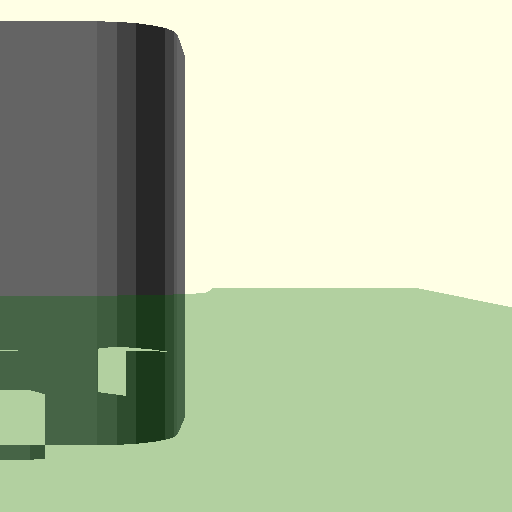
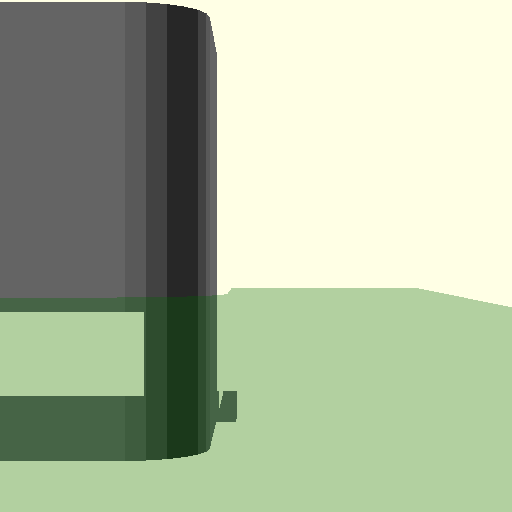
Refactor REGS to use standard CalculatorMenu framework and cap SIG auto-tracking to user parameter

Changed region(s): [[0.0, 0.0, 0.4688, 0.9062]]

diff --git a/RPNCore/Sources/RPNCore/CalculatorEngine.swift b/RPNCore/Sources/RPNCore/CalculatorEngine.swift
@@ -310,7 +310,6 @@ public class CalculatorEngine {
     
     // UI Events
     public var requestPlot: Bool = false
-    public var showRegs: Bool = false
     public var requestPlotPrompt: Bool = false
     public var selectedPlotX: Double? = nil
     public var requestThemeChange: Bool = false
@@ -1361,10 +1360,6 @@ public class CalculatorEngine {
                 // If they typed something else, it just clears the view and proceeds.
             }
         }
-        if operation == "REGS" {
-            self.showRegs = true
-            return
-        }
         
         if isWaitingForLabel {
             if operation == "C" || operation == "CLEAR" || operation == "BACKSPACE" {
@@ -1409,10 +1404,6 @@ public class CalculatorEngine {
             if operation != "VIEW" {
                 // If they typed something else, it just clears the view and proceeds.
             }
-        }
-        if operation == "REGS" {
-            self.showRegs = true
-            return
         }
         
         if isWaitingForLabel {
@@ -1775,8 +1766,8 @@ public class CalculatorEngine {
             updateDisplay()
             return
         }
-        if operation == "SIG" {
-            displayMode = .sig(-1)
+        if operation.hasPrefix("SIG ") {
+            if let p = parseInt(_substringToString(operation.dropFirst(4))) { displayMode = .sig(p) }
             isFractionMode = false
             updateDisplay()
             return
@@ -3351,9 +3342,9 @@ public class CalculatorEngine {
     
     public func formatValue(_ cv: CalculatorValue) -> String {
         let val = cv.real
-        if displayMode == .sig(-1) {
-            // Auto sig figs formatting
-            let sf = cv.effectiveSigFigs
+        if case .sig(let p) = displayMode {
+            // Cap the auto sig figs to the user's requested parameter `p`
+            let sf = min(p, cv.effectiveSigFigs)
             
             #if hasFeature(Embedded)
             let bufLen = 64
@@ -3559,7 +3550,7 @@ public class CalculatorEngine {
         case .sci(let places): n = 30 + (places * 10)
         case .eng(let places): n = 30 + (places * 10)
         case .all: n = 100
-        case .sig(_): n = 100 // Auto sig figs
+        case .sig(let sigFigs): n = 30 + (sigFigs * 15)
         }
         // Cap to prevent excessive lag on devices
         n = min(n, 200)

diff --git a/RPNCore/Sources/RPNCore/ValueFormatter.swift b/RPNCore/Sources/RPNCore/ValueFormatter.swift
@@ -33,12 +33,6 @@ public class FoundationValueFormatter: ValueFormatter {
         case .sci(let places), .eng(let places):
             return formatScientificToFit(val: val, maxLength: maxLength, maxFraction: places)
         case .sig(let places):
-            if places == -1 {
-                // If it's auto, we can't extract CalculatorValue here because ValueFormatter only takes Double.
-                // But RetroUI will use updateDisplay() anyways for main rendering, and for stack it uses formatNumber.
-                // We'll just fallback to .all for the double-only formatter when in auto mode.
-                return format(value: val, mode: .all)
-            }
             return formatScientificToFit(val: val, maxLength: maxLength, maxFraction: places)
         case .all:
             formatter.numberStyle = .decimal
@@ -108,7 +102,6 @@ public class BasicValueFormatter: ValueFormatter {
         case .eng(let places):
             return formatEng(val, places: places)
         case .sig(let places):
-            if places == -1 { return formatAll(val) }
             return formatSci(val, places: places)
         case .all:
             return formatAll(val)

diff --git a/StackCalc32/Views/ContentView.swift b/StackCalc32/Views/ContentView.swift
@@ -338,7 +338,6 @@ struct WatchMenuModifier: ViewModifier {
     @State private var showIntegrate = false
     @State private var showShow = false
     @State private var showProgramEditor = false
-    @State private var showRegs = false
 
     func body(content: Content) -> some View {
         @Bindable var bindableEngine = engine
@@ -349,7 +348,6 @@ struct WatchMenuModifier: ViewModifier {
             .sheet(isPresented: $showXEQ) { XEQPromptView().environment(engine) }
             .sheet(isPresented: $showIntegrate) { IntegratePromptView().environment(engine) }
             .sheet(isPresented: $showShow) { ShowView(rawValue: engine.stack.first?.real ?? 0) }
-            .sheet(isPresented: $showRegs) { RegsView() }
             .sheet(isPresented: $showProgramEditor) { EquationEditorView() }
             .sheet(isPresented: Binding(
                 get: { bindableEngine.currentEvaluatingProgram != nil },

diff --git a/RPNCore/Sources/RPNCore/MenuSystem.swift b/RPNCore/Sources/RPNCore/MenuSystem.swift
@@ -87,7 +87,7 @@ public enum CalculatorMenu: String, CaseIterable, Identifiable {
         MenuItem(label: "FIX", requiresDigit: true, description: "Fixed decimal places"),
         MenuItem(label: "SCI", requiresDigit: true, description: "Scientific notation"),
         MenuItem(label: "ENG", requiresDigit: true, description: "Engineering notation"),
-        MenuItem(label: "SIG", requiresDigit: false, description: "Significant figures (Auto)"),
+        MenuItem(label: "SIG", requiresDigit: true, description: "Significant figures"),
         MenuItem(label: "ALL", description: "Show all trailing digits")
     ]
     public static let baseItems: [MenuItem] = [

diff --git a/StackCalc32/Views/Keypads/BottomNumpadView.swift b/StackCalc32/Views/Keypads/BottomNumpadView.swift
@@ -78,6 +78,7 @@ struct BottomNumpadView: View {
         case .disp:       return .disp
         case .modes:      return .modes
         case .base:       return .base
+        case .regs:       return .regs
         case .testXY:     return .testXY
         case .testX0:     return .testX0
         case .prob:       return .prob
